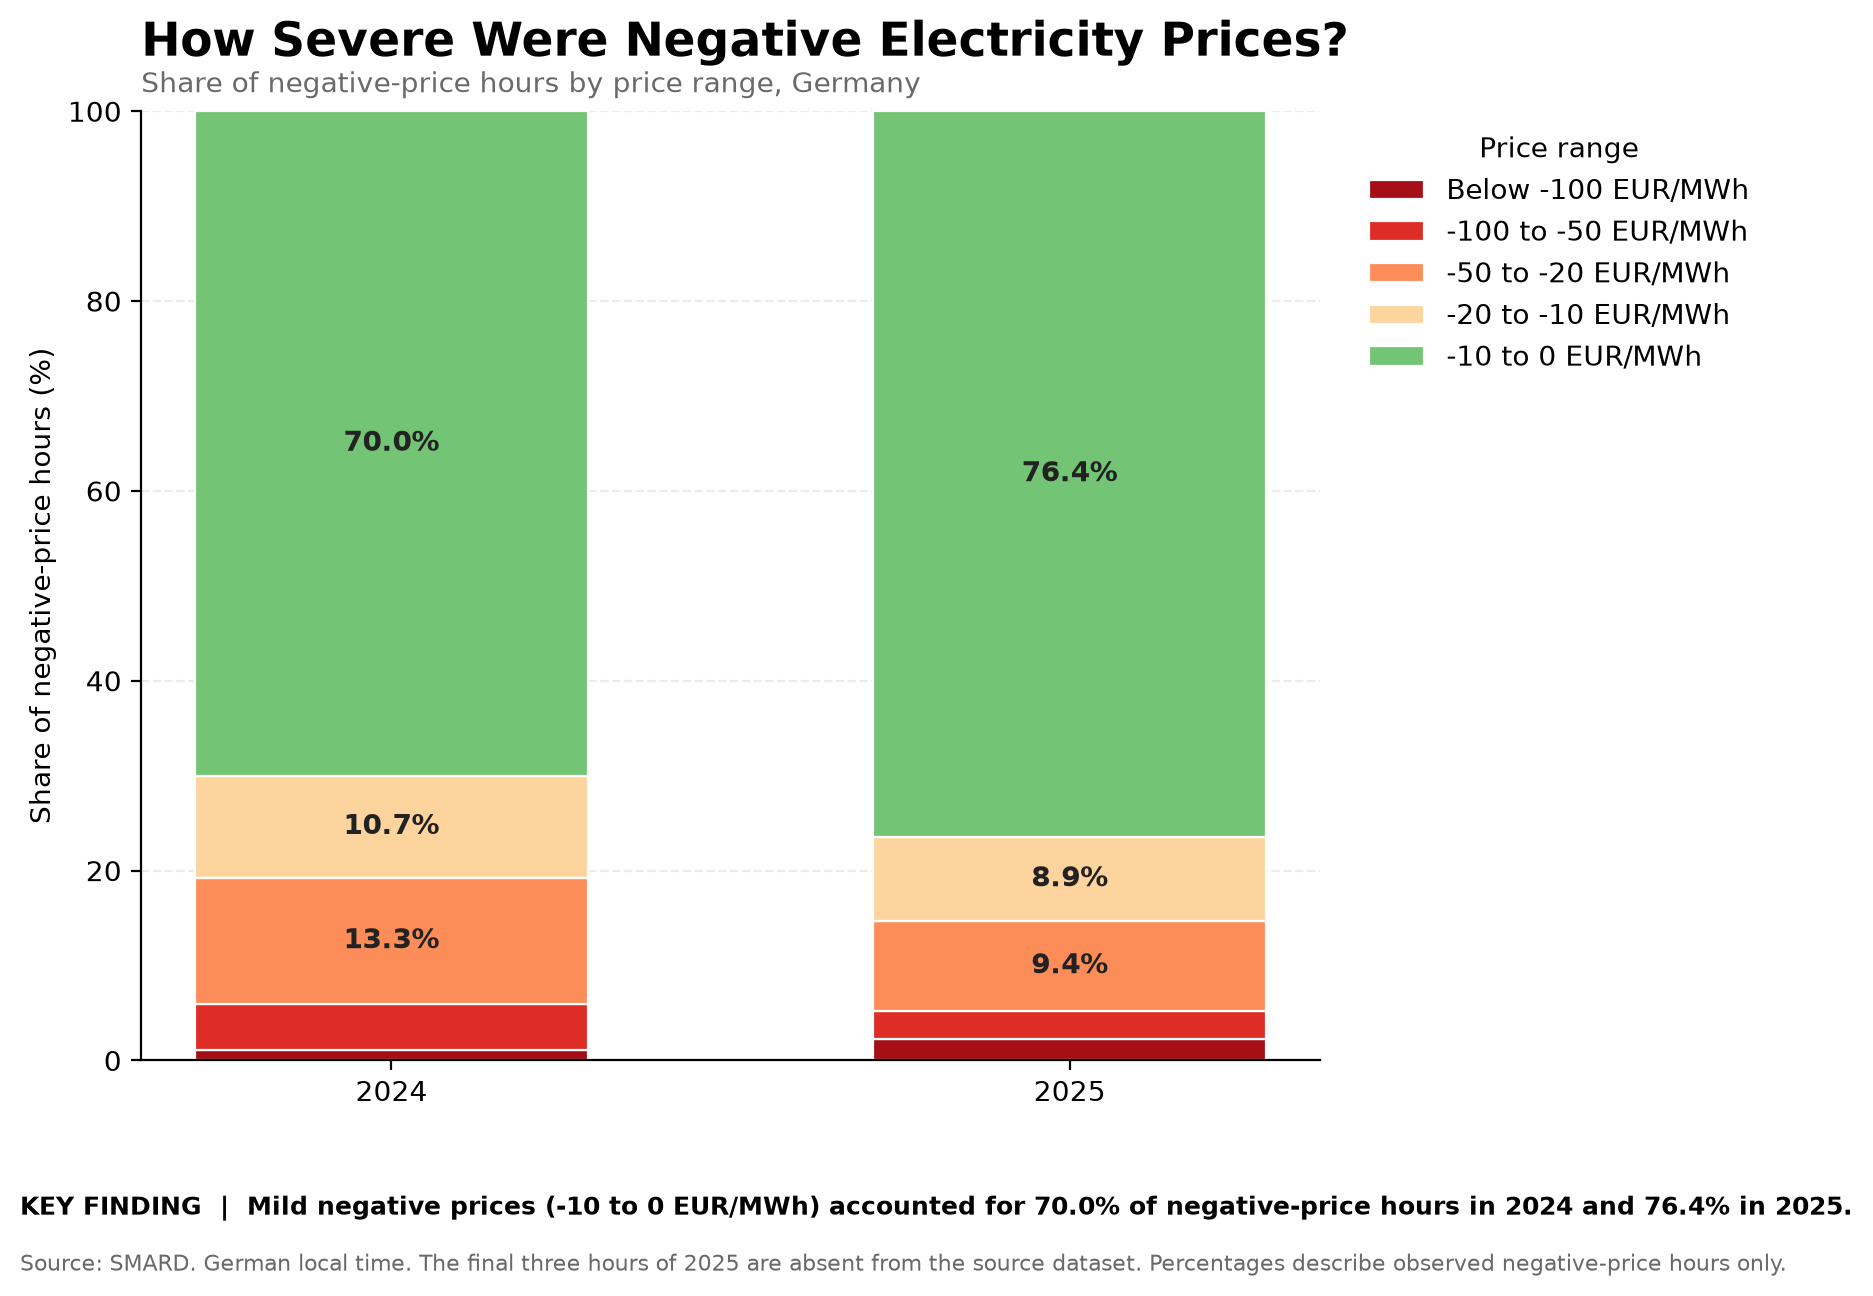
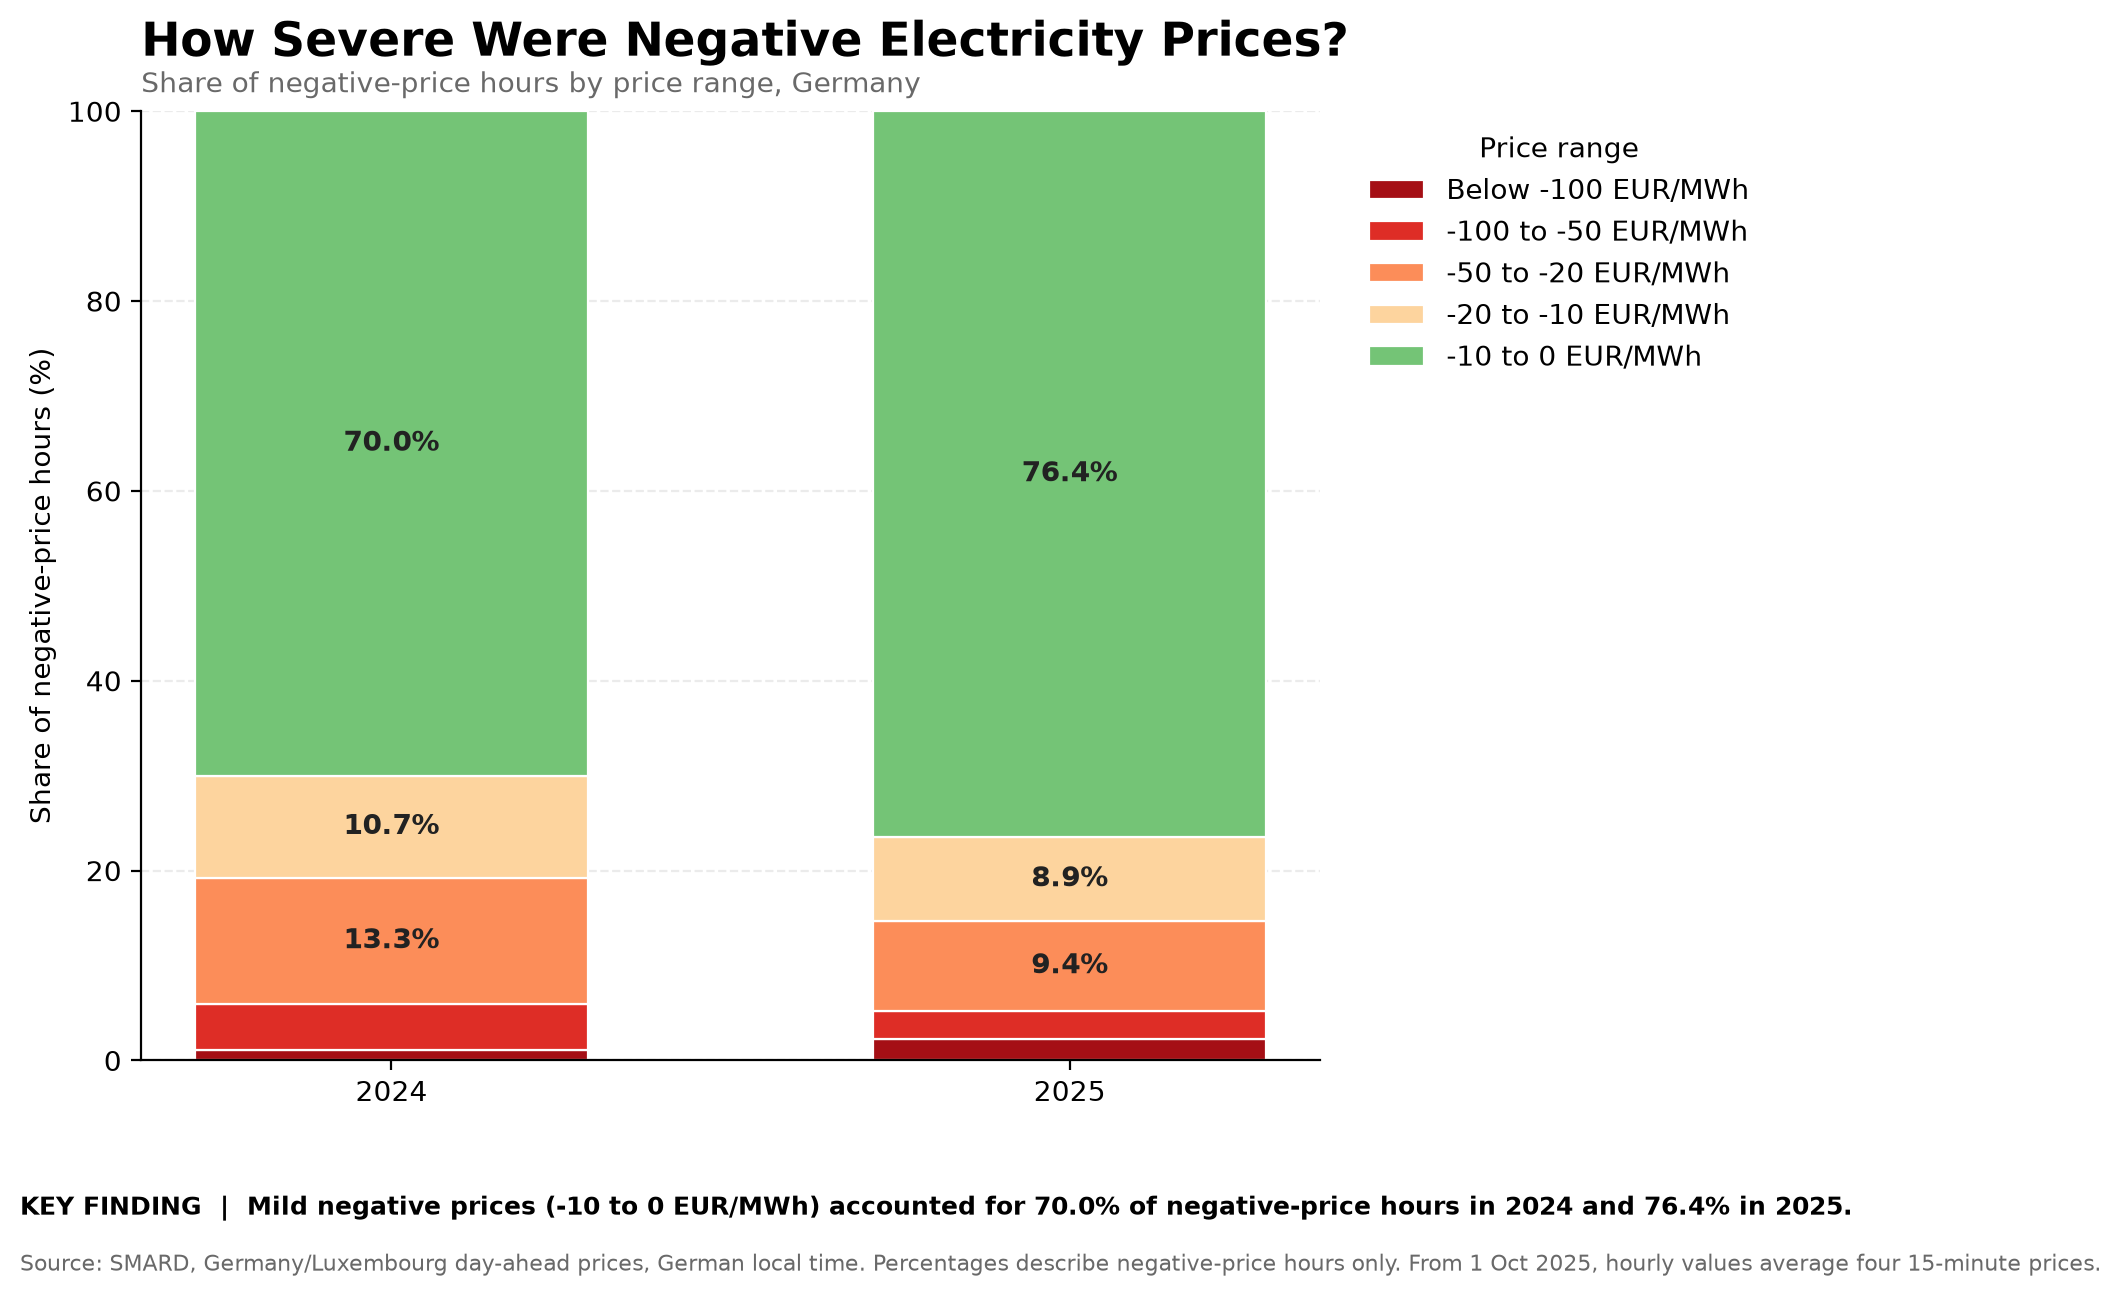
Fix severity chart footer; compute takeaway from data

diff --git a/src/gridsignal/plot_negative_price_severity.py b/src/gridsignal/plot_negative_price_severity.py
@@ -180,12 +180,16 @@ def main() -> None:
         bbox_to_anchor=(1.02, 1),
     )
 
+    mild_label = SEVERITY_LABELS[-1]
+    mild_2024 = percentages.loc[2024, mild_label]
+    mild_2025 = percentages.loc[2025, mild_label]
+
     fig.text(
         0.01,
         0.065,
-        "KEY FINDING  |  Mild negative prices (-10 to 0 EUR/MWh) "
-        "accounted for 70.0% of negative-price hours in 2024 "
-        "and 76.4% in 2025.",
+        f"KEY FINDING  |  Mild negative prices ({mild_label} EUR/MWh) "
+        f"accounted for {mild_2024:.1f}% of negative-price hours in 2024 "
+        f"and {mild_2025:.1f}% in 2025.",
         fontsize=9,
         fontweight="bold",
     )
@@ -193,9 +197,9 @@ def main() -> None:
     fig.text(
         0.01,
         0.025,
-        "Source: SMARD. German local time. The final three hours "
-        "of 2025 are absent from the source dataset. "
-        "Percentages describe observed negative-price hours only.",
+        "Source: SMARD, Germany/Luxembourg day-ahead prices, German local time. "
+        "Percentages describe negative-price hours only. "
+        "From 1 Oct 2025, hourly values average four 15-minute prices.",
         fontsize=8,
         color="dimgray",
     )
